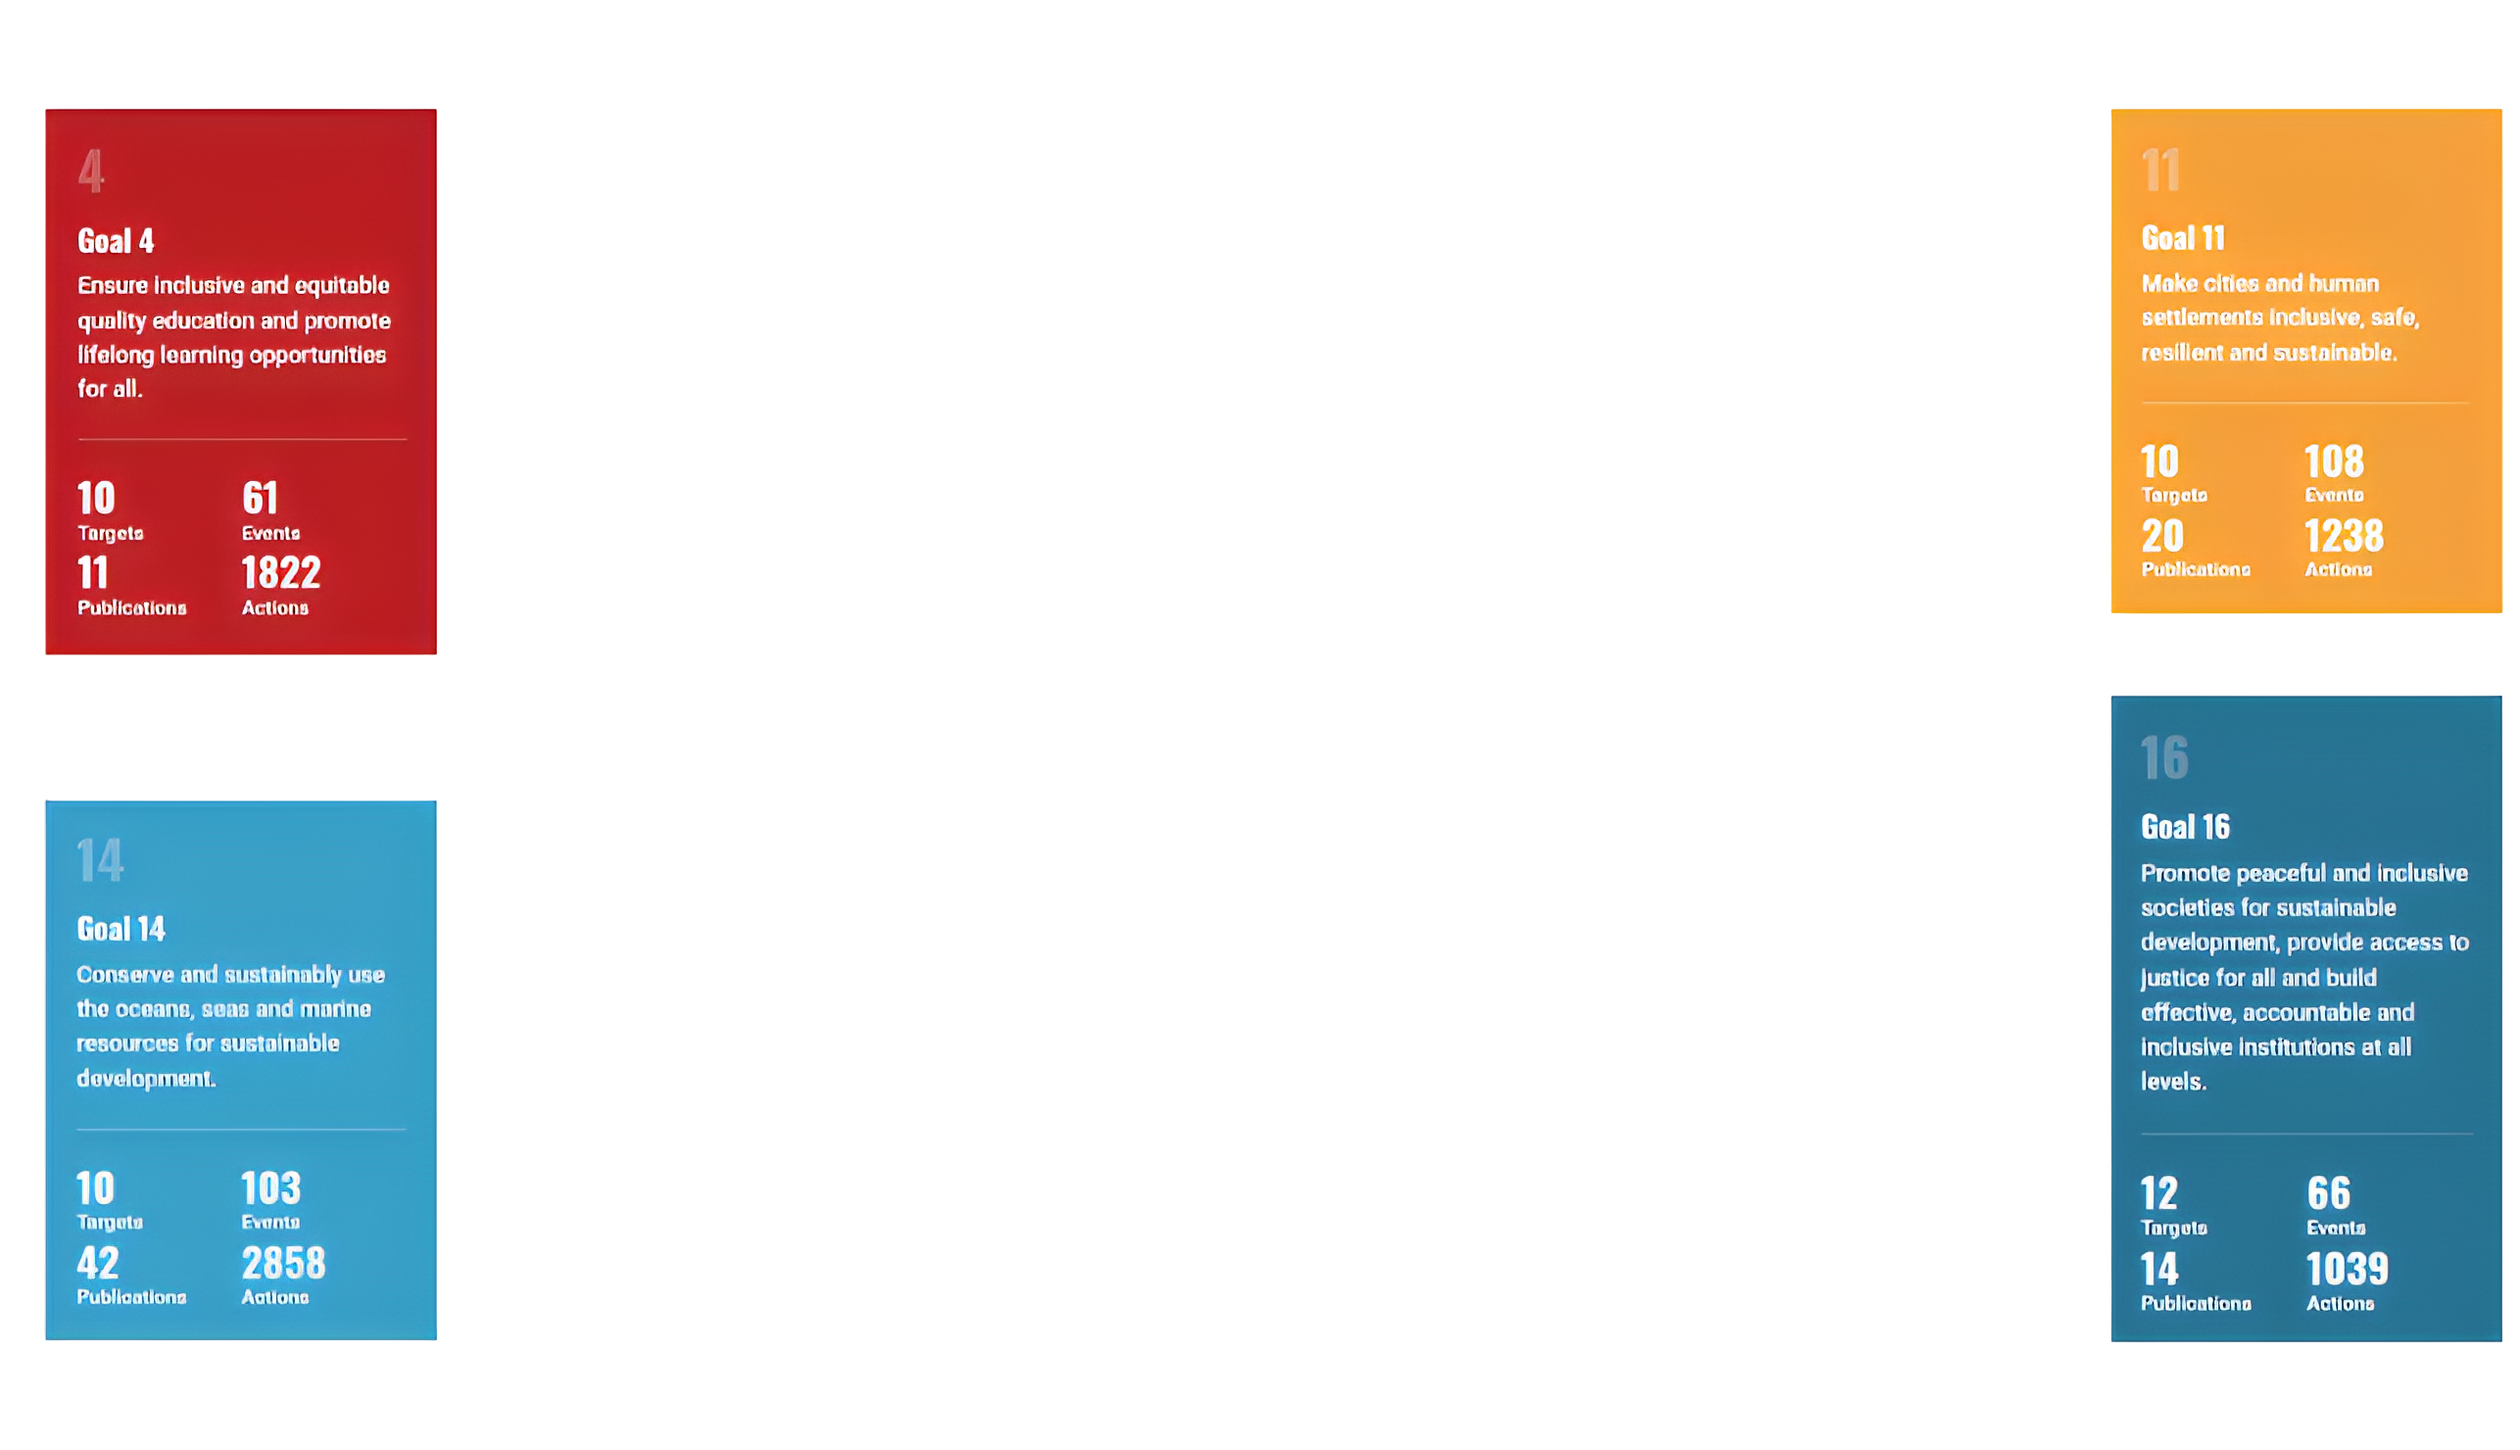
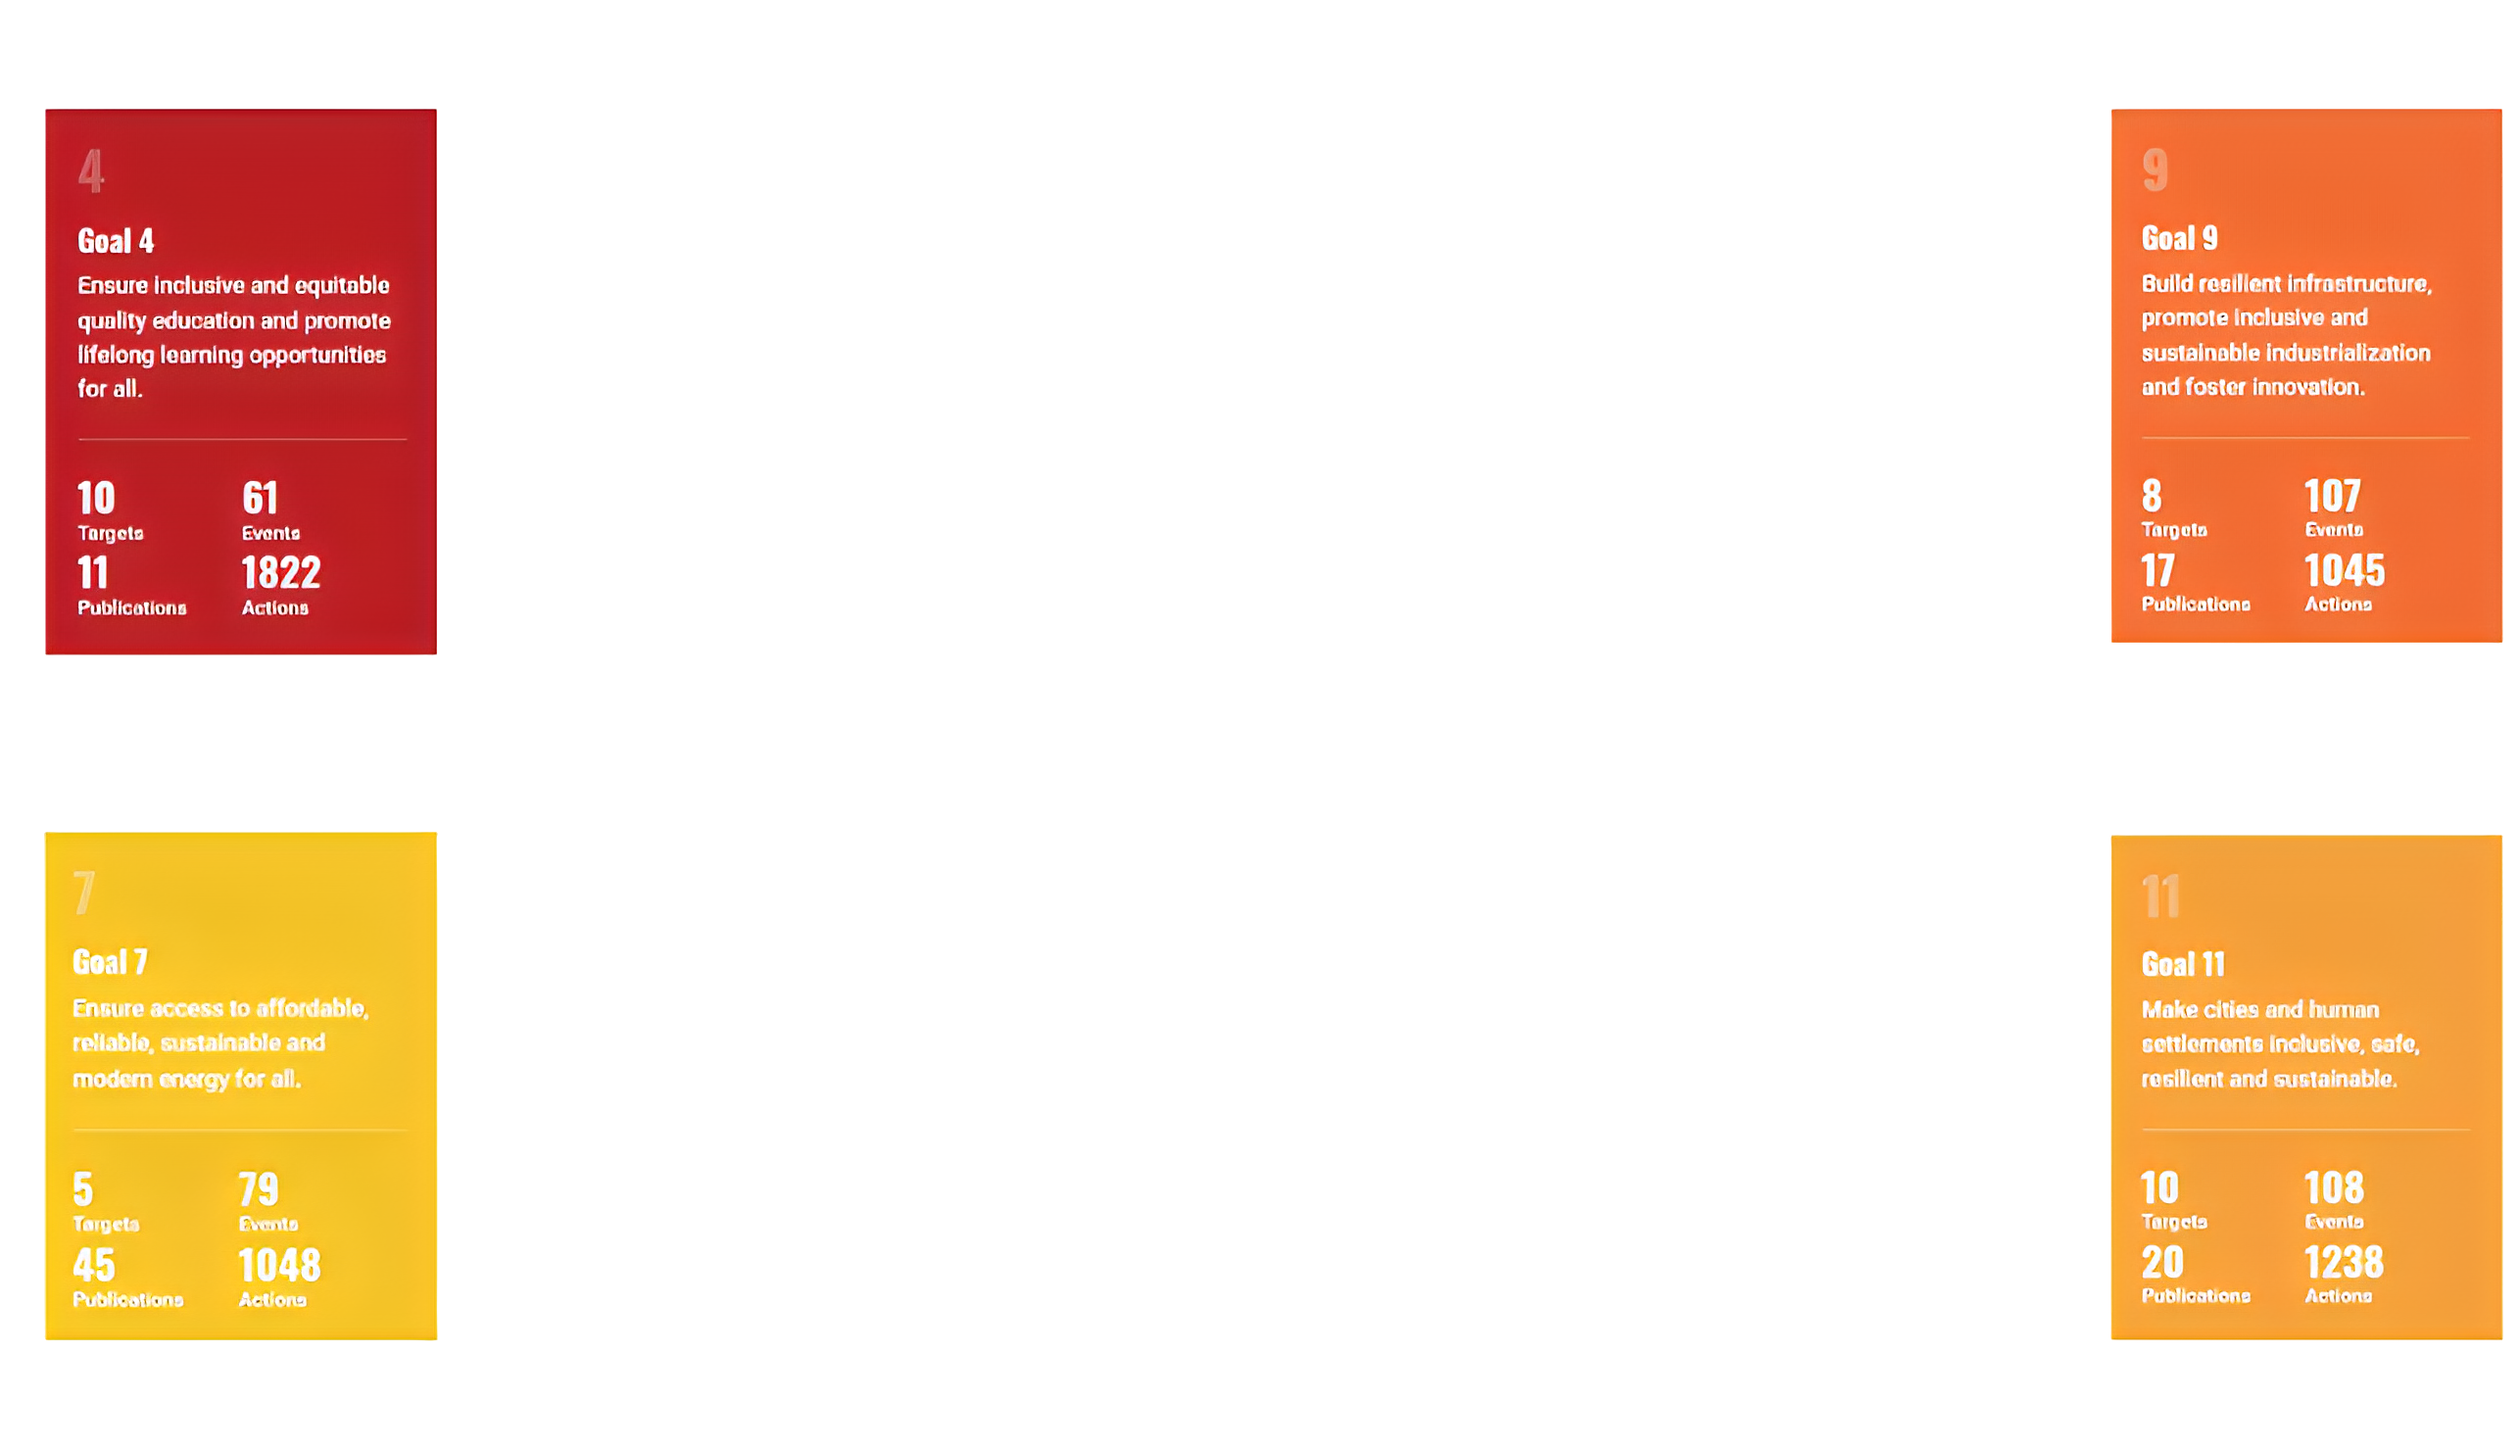
SDG updated SDG goals and the problem statements
SDG updated SDG goals and the problem statements-
changed SDG 14 and 16 to SDG 7 and 9 respectively, removed app dev problem statement and cyber security.

Changed region(s): [[0.8398, 0.0622, 0.9953, 0.9324], [0.0, 0.5284, 0.1866, 0.9324]]

diff --git a/src/components/Tracks.jsx b/src/components/Tracks.jsx
@@ -21,12 +21,12 @@ const health = [
 ];
 
 const sdg = [
-  { icon: LuBrainCircuit, color: "text-red-500", text: "AI Solutions", hoverText: "Develop an AI-powered system to enhance governance and justice by improving transparency, efficiency, and accountability within institutions. (SDG 16)" },
-  { icon: BsShieldLockFill, color: "text-blue-500", text: "Cyber Security", hoverText: "Develop comprehensive cybersecurity solutions tailored for smart cities, focusing on safeguarding critical infrastructure against cyber threats to ensure urban resilience and safety. (SDG 11)" },
-  { icon: IoGameController, color: "text-green-500", text: "Gamification", hoverText: "Use gamification to engage users in marine conservation. Through interactive games, raise awareness about sustainable fisheries, marine pollution reduction, and ocean health preservation. (SDG 14)" },
-  { icon: IoHardwareChip, color: "text-yellow-500", text: "IoT (Internet of Things)", hoverText: "Design an IoT waste management system with mobile apps for the real-time monitoring and reporting to prevent health hazards from overflowing trash bins in public areas. (SDG 11)" },
+  { icon: LuBrainCircuit, color: "text-red-500", text: "AI Solutions", hoverText: "Develop an AI-driven software tool that aggregates and analyzes real-time energy consumption data from smart meters to provide households and businesses with detailed, actionable insights to reduce energy consumption and improve efficiency. (SDG 7)" },
+  // { icon: BsShieldLockFill, color: "text-blue-500", text: "Cyber Security", hoverText: "Develop comprehensive cybersecurity solutions tailored for smart cities, focusing on safeguarding critical infrastructure against cyber threats to ensure urban resilience and safety. (SDG 11)" },
+  { icon: IoGameController, color: "text-green-500", text: "Gamification", hoverText: "Develop an interactive software platform that uses game technologies to simulate real-world industrial scenarios, enhancing skill development and training effectiveness for the industrial workforce. (SDG 9)" },
+  { icon: IoHardwareChip, color: "text-yellow-500", text: "IoT (Internet of Things)", hoverText: "Design an IoT waste segregation management system for the real-time monitoring and reporting to prevent health hazards from overflowing trash bins in public areas. (SDG 11)" },
   { icon: FaMobileAlt, color: "text-purple-500", text: "App Development", hoverText: "Develop a mobile app analyzing educational records for rural and specially-abled students, offering personalized learning plans and resources to enhance academic performance and ensure equitable education access. (SDG 4)" },
-  { icon: FaLaptop, color: "text-orange-500", text: "Web Development", hoverText: "Create a web app to monitor Ganga River health, collecting real-time data on water quality, pollution, and biodiversity to support restoration efforts and promoting sustainable practices. (SDG 14)" }
+  // { icon: FaLaptop, color: "text-orange-500", text: "Web Development", hoverText: "Create a web app to monitor Ganga River health, collecting real-time data on water quality, pollution, and biodiversity to support restoration efforts and promoting sustainable practices. (SDG 14)" }
 ];
 
 const agri = [
